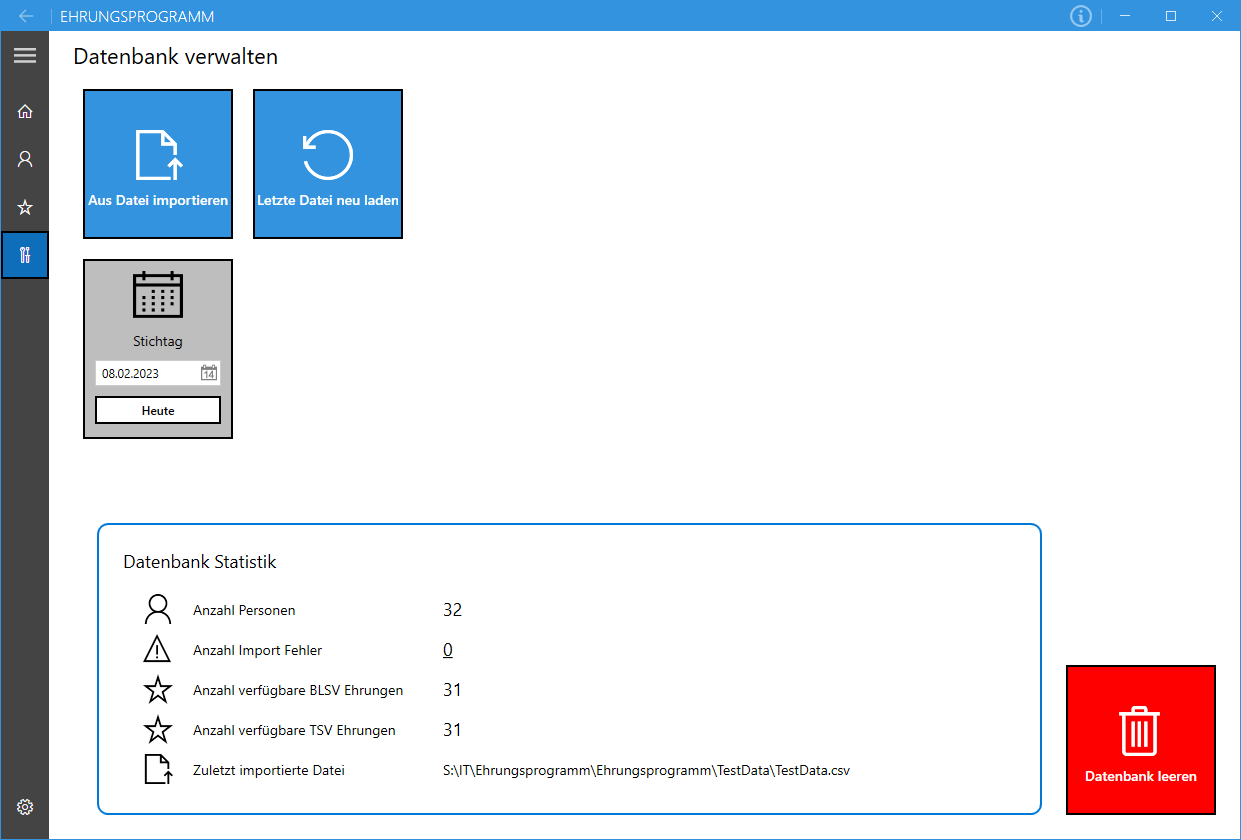
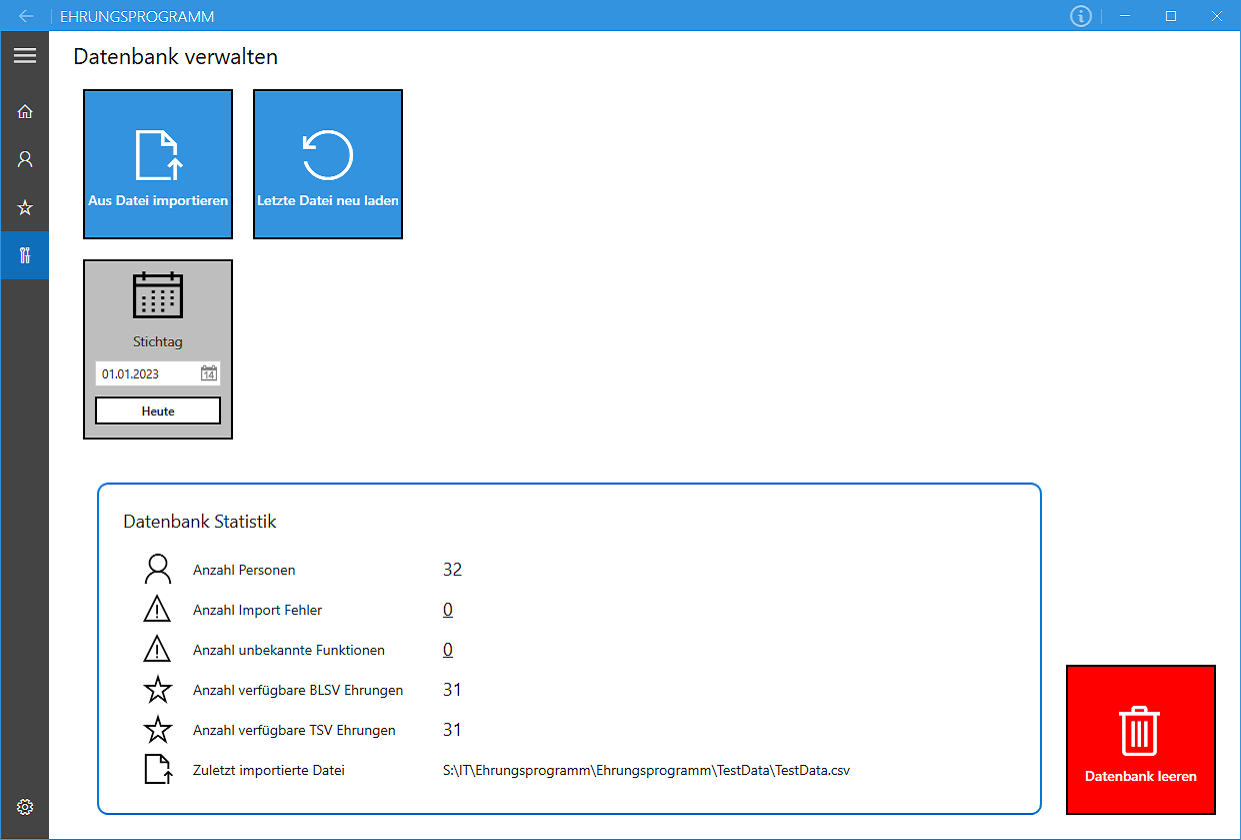
Taking some more functions into account (#26), added filter for unknown functions (#26), small restructurations

diff --git a/Ehrungsprogramm/Views/ManageDatabasePage.xaml b/Ehrungsprogramm/Views/ManageDatabasePage.xaml
@@ -86,6 +86,7 @@
                             <RowDefinition Height="40"/>
                             <RowDefinition Height="40"/>
                             <RowDefinition Height="40"/>
+                            <RowDefinition Height="40"/>
                         </Grid.RowDefinitions>
                         <Grid.ColumnDefinitions>
                             <ColumnDefinition Width="70"/>
@@ -107,17 +108,25 @@
                             </Hyperlink>
                         </TextBlock>
 
-                        <controls:FontIcon Grid.Row="3" Grid.Column="0" Glyph="&#xE734;" FontSize="30" Margin="5"/>
-                        <TextBlock Grid.Row="3" Grid.Column="1" FontSize="{StaticResource MediumFontSize}" VerticalAlignment="Center" Text="{x:Static properties:Resources.AvailableBLSVRewardsCountString}"/>
-                        <TextBlock Grid.Row="3" Grid.Column="2" FontSize="{StaticResource LargeFontSize}" VerticalAlignment="Center" Text="{Binding AvailableBLSVRewardsCount}"/>
+                        <controls:FontIcon Grid.Row="3" Grid.Column="0" Glyph="&#xE7BA;" FontSize="30" Margin="5"/>
+                        <TextBlock Grid.Row="3" Grid.Column="1" FontSize="{StaticResource MediumFontSize}" VerticalAlignment="Center" Text="{x:Static properties:Resources.UnknownFunctionsCountString}"/>
+                        <TextBlock Grid.Row="3" Grid.Column="2" FontSize="{StaticResource LargeFontSize}" VerticalAlignment="Center">
+                            <Hyperlink Command="{Binding ShowUnknownFunctionsPersonsCommand}">
+                                <TextBlock Text="{Binding UnknownFunctionsCount}"/>
+                            </Hyperlink>
+                        </TextBlock>
 
                         <controls:FontIcon Grid.Row="4" Grid.Column="0" Glyph="&#xE734;" FontSize="30" Margin="5"/>
-                        <TextBlock Grid.Row="4" Grid.Column="1" FontSize="{StaticResource MediumFontSize}" VerticalAlignment="Center" Text="{x:Static properties:Resources.AvailableTSVRewardsCountString}"/>
-                        <TextBlock Grid.Row="4" Grid.Column="2" FontSize="{StaticResource LargeFontSize}" VerticalAlignment="Center" Text="{Binding AvailableTSVRewardsCount}"/>
+                        <TextBlock Grid.Row="4" Grid.Column="1" FontSize="{StaticResource MediumFontSize}" VerticalAlignment="Center" Text="{x:Static properties:Resources.AvailableBLSVRewardsCountString}"/>
+                        <TextBlock Grid.Row="4" Grid.Column="2" FontSize="{StaticResource LargeFontSize}" VerticalAlignment="Center" Text="{Binding AvailableBLSVRewardsCount}"/>
 
-                        <controls:FontIcon Grid.Row="5" Grid.Column="0" Glyph="&#xE8E5;" FontSize="30" Margin="5"/>
-                        <TextBlock Grid.Row="5" Grid.Column="1" FontSize="{StaticResource MediumFontSize}" VerticalAlignment="Center" Text="{x:Static properties:Resources.LastImportedFileString}"/>
-                        <TextBlock Grid.Row="5" Grid.Column="2" FontSize="{StaticResource MediumFontSize}" VerticalAlignment="Center" Text="{Binding LastImportFilePath}" TextTrimming="CharacterEllipsis"/>
+                        <controls:FontIcon Grid.Row="5" Grid.Column="0" Glyph="&#xE734;" FontSize="30" Margin="5"/>
+                        <TextBlock Grid.Row="5" Grid.Column="1" FontSize="{StaticResource MediumFontSize}" VerticalAlignment="Center" Text="{x:Static properties:Resources.AvailableTSVRewardsCountString}"/>
+                        <TextBlock Grid.Row="5" Grid.Column="2" FontSize="{StaticResource LargeFontSize}" VerticalAlignment="Center" Text="{Binding AvailableTSVRewardsCount}"/>
+
+                        <controls:FontIcon Grid.Row="6" Grid.Column="0" Glyph="&#xE8E5;" FontSize="30" Margin="5"/>
+                        <TextBlock Grid.Row="6" Grid.Column="1" FontSize="{StaticResource MediumFontSize}" VerticalAlignment="Center" Text="{x:Static properties:Resources.LastImportedFileString}"/>
+                        <TextBlock Grid.Row="6" Grid.Column="2" FontSize="{StaticResource MediumFontSize}" VerticalAlignment="Center" Text="{Binding LastImportFilePath}" TextTrimming="CharacterEllipsis"/>
 
                     </Grid>
                 </Border>

diff --git a/Ehrungsprogramm.Core/Services/PersonService.cs b/Ehrungsprogramm.Core/Services/PersonService.cs
@@ -76,7 +76,7 @@ namespace Ehrungsprogramm.Core.Services
             set
             {
                 _settings.CalculationDeadline = value;
-                if(!_settingsCollection.Update(_settings))
+                if (!_settingsCollection.Update(_settings))
                 {
                     _settingsCollection.Insert(_settings);
                 }
@@ -93,7 +93,7 @@ namespace Ehrungsprogramm.Core.Services
             set
             {
                 _settings.LastImportFilePath = value;
-                if(!_settingsCollection.Update(_settings))
+                if (!_settingsCollection.Update(_settings))
                 {
                     _settingsCollection.Insert(_settings);
                 }
@@ -141,17 +141,17 @@ namespace Ehrungsprogramm.Core.Services
                     importingResult = true;
                     LastImportFilePath = filepath;
                 }
-                catch(OperationCanceledException)
+                catch (OperationCanceledException)
                 {
                     importingResult = false;
                 }
-                catch(Exception ex)
+                catch (Exception ex)
                 {
                     exception = ex;
                 }
             });
             OnImportFromFileFinished?.Invoke(this, null);
-            if(exception != null) { throw exception; }
+            if (exception != null) { throw exception; }
             return importingResult;
         }
 
@@ -193,39 +193,63 @@ namespace Ehrungsprogramm.Core.Services
         /// Return the number of <see cref="Person"/> in the database
         /// </summary>
         /// <returns>Number of <see cref="Person"/> in the database</returns>
-        public int GetPersonCount()
+        public int PersonCount
         {
-            return _peopleCollection?.Count() ?? 0;
+            get
+            {
+                return _peopleCollection?.Count() ?? 0;
+            }
         }
 
         /// <summary>
         /// Get the number of <see cref="Person"/> with parsing errors/>
         /// </summary>
         /// <returns>number of <see cref="Person"/> with parsing errors</returns>
-        public int GetParsingErrorCount()
+        public int ParsingErrorCount
         {
-            List<Person> people = _peopleCollection?.Query().ToList();
-            return people.Where(p => !string.IsNullOrEmpty(p.ParsingFailureMessage)).Count();
+            get
+            {
+                List<Person> people = _peopleCollection?.Query().ToList();
+                return people.Where(p => !string.IsNullOrEmpty(p.ParsingFailureMessage)).Count();
+            }
+        }
+
+        /// <summary>
+        /// Number of functions of type <see cref="FunctionType.UNKNOWN"/> within all <see cref="Person"/>/>
+        /// </summary>
+        public int UnknownFunctionsCount
+        {
+            get
+            {
+                List<Person> people = _peopleCollection?.Query().ToList();
+                return people.SelectMany(p => p.Functions).Where(f => f.Type == FunctionType.UNKNOWN).Count();
+            }
         }
 
         /// <summary>
         /// Get the number of available (but not obtained) BLSV <see cref="Reward"/>
         /// </summary>
         /// <returns>Number of available (but not obtained) BLSV <see cref="Reward"/></returns>
-        public int GetAvailableBLSVRewardsCount()
+        public int AvailableBLSVRewardsCount
         {
-            List<Person> people = GetPersons();
-            return people.Count(p => p.Rewards.HighestAvailableBLSVReward != null);
+            get
+            {
+                List<Person> people = GetPersons();
+                return people.Count(p => p.Rewards.HighestAvailableBLSVReward != null);
+            }
         }
 
         /// <summary>
         /// Get the number of available (but not obtained) TSV <see cref="Reward"/>
         /// </summary>
         /// <returns>Number of available (but not obtained) TSV <see cref="Reward"/></returns>
-        public int GetAvailableTSVRewardsCount()
+        public int AvailableTSVRewardsCount
         {
-            List<Person> people = GetPersons();
-            return people.Count(p => p.Rewards.HighestAvailableTSVReward != null);
+            get
+            {
+                List<Person> people = GetPersons();
+                return people.Count(p => p.Rewards.HighestAvailableTSVReward != null);
+            }
         }
 
         // ++++++++++++++++++++++++++++++++++++++++++++++++++++++++++++++++++++++++++++++++++++++++++++++++++++++++++++++++++++++++++++++++++++++++++++++

diff --git a/Ehrungsprogramm.Core/Services/CsvFileParserProWinner.cs b/Ehrungsprogramm.Core/Services/CsvFileParserProWinner.cs
@@ -40,11 +40,12 @@ namespace Ehrungsprogramm.Core.Services
         // "Name, Vorname";"Geb.Datum";"Eintritt am";"Funktionsname";"von -";"bis";"Ehr.Nr.";"Ehr.dat.";"Ehrungsbezeichnung";"Eintritt am";"Funktionsname";"Funktion von";"Funktion bis";"Ehrungs-Nr";"Ehrung am";"Ehrungsname"; ...
         //                             | FUNCTION 0                               | REWARD 0                                | FUNCTION 1                                                | REWARD 1                             | ...
 
-        public const string BOARD_MEMBER_MARKER = "1. 2. 3. Vorstand";
-        public const string BOARD_MEMBER_FUNCTION_MARKER = "Vorstandschaft";        // someone who has another function than 1. - 3. board member but is in the board too.
-        public const string BOARD_MEMBER_FUNCTION_MARKER2 = "HV-";                   // alternative marker for the BOARD_MEMBER_FUNCTION_MARKER
-        public const string HEAD_OF_DEPARTEMENT_MARKER = "Abteilungsleiter";
-        public const string OTHER_FUNCTIONS_MARKER = "FKT";
+        // The FUNCTION_MARKERS_BOARD_MEMBER_POINTS list contains all function markers that are assigned to functions like board members or equal scored functions
+        public static readonly List<string> FUNCTION_MARKERS_BOARD_MEMBER_POINTS = new List<string>() { "1. 2. 3. Vorstand" };
+        // The FUNCTION_MARKERS_HEAD_OF_DEPARTEMENT_POINTS list contains all function markers that are assigned to functions like head of departement or equal scored functions
+        public static readonly List<string> FUNCTION_MARKERS_HEAD_OF_DEPARTEMENT_POINTS = new List<string>() { "Abteilungsleiter", "Vorstandschaft", "HV-" };
+        // The FUNCTION_MARKERS_OTHER_FUNCTION_POINTS list contains all function markers that are assigned to other functions
+        public static readonly List<string> FUNCTION_MARKERS_OTHER_FUNCTION_POINTS = new List<string>() { "FKT", "Fahnenträger", "Geschäftsstelle Mita" };
 
         public const int REWARD_NUMBER_BLSV20 = 14;
         public const int REWARD_NUMBER_BLSV25 = 15;
@@ -234,15 +235,15 @@ namespace Ehrungsprogramm.Core.Services
                     }
 
                     // Check if the functionName contains some key words and assign the function.Type accordingly
-                    if (functionName.Contains(OTHER_FUNCTIONS_MARKER)) 
+                    if (FUNCTION_MARKERS_OTHER_FUNCTION_POINTS.Where(m => functionName.Contains(m)).Count() > 0)
                     { 
                         function.Type = FunctionType.OTHER_FUNCTION; 
                     }
-                    else if (functionName.Contains(HEAD_OF_DEPARTEMENT_MARKER) || functionName.Contains(BOARD_MEMBER_FUNCTION_MARKER) || functionName.Contains(BOARD_MEMBER_FUNCTION_MARKER2)) 
+                    else if (FUNCTION_MARKERS_HEAD_OF_DEPARTEMENT_POINTS.Where(m => functionName.Contains(m)).Count() > 0)
                     { 
                         function.Type = FunctionType.HEAD_OF_DEPARTEMENT;
                     }
-                    else if (functionName.Contains(BOARD_MEMBER_MARKER)) 
+                    else if (FUNCTION_MARKERS_BOARD_MEMBER_POINTS.Where(m => functionName.Contains(m)).Count() > 0)
                     { 
                         function.Type = FunctionType.BOARD_MEMBER; 
                     }

diff --git a/Ehrungsprogramm/ViewModels/ManageDatabaseViewModel.cs b/Ehrungsprogramm/ViewModels/ManageDatabaseViewModel.cs
@@ -37,22 +37,27 @@ namespace Ehrungsprogramm.ViewModels
         /// <summary>
         /// Number of Persons in the database
         /// </summary>
-        public int PersonCount => _personService?.GetPersonCount() ?? 0;
+        public int PersonCount => _personService?.PersonCount ?? 0;
 
         /// <summary>
         /// Number of <see cref="Person"/> with parsing errors/>
         /// </summary>
-        public int ParsingErrorCount => _personService?.GetParsingErrorCount() ?? 0;
+        public int ParsingErrorCount => _personService?.ParsingErrorCount ?? 0;
+
+        /// <summary>
+        /// Number of functions of type <see cref="FunctionType.UNKNOWN"/> within all <see cref="Person"/>/>
+        /// </summary>
+        public int UnknownFunctionsCount => _personService?.UnknownFunctionsCount ?? 0;
 
         /// <summary>
         /// Number of available (but not obtained) BLSV <see cref="Reward"/>
         /// </summary>
-        public int AvailableBLSVRewardsCount => _personService?.GetAvailableBLSVRewardsCount() ?? 0;
+        public int AvailableBLSVRewardsCount => _personService?.AvailableBLSVRewardsCount ?? 0;
 
         /// <summary>
         /// Number of available (but not obtained) TSV <see cref="Reward"/>
         /// </summary>
-        public int AvailableTSVRewardsCount => _personService?.GetAvailableTSVRewardsCount() ?? 0;
+        public int AvailableTSVRewardsCount => _personService?.AvailableTSVRewardsCount ?? 0;
 
         /// <summary>
         /// Path of the last imported file
@@ -71,6 +76,9 @@ namespace Ehrungsprogramm.ViewModels
 
         private ICommand _showParsingFailurePersonsCommand;
         public ICommand ShowParsingFailurePersonsCommand => _showParsingFailurePersonsCommand ?? (_showParsingFailurePersonsCommand = new RelayCommand(() => _navigationService.NavigateTo(typeof(PersonsViewModel).FullName, PersonsViewModel.FILTER_FLAG_WARN)));
+
+        private ICommand _showUnknownFunctionsPersonsCommand;
+        public ICommand ShowUnknownFunctionsPersonsCommand => _showUnknownFunctionsPersonsCommand ?? (_showUnknownFunctionsPersonsCommand = new RelayCommand(() => _navigationService.NavigateTo(typeof(PersonsViewModel).FullName, PersonsViewModel.FILTER_FLAG_UNKNOWN_FUNCTION)));
 
         private ICommand _setCalculationDeadlineTodayCommand;
         public ICommand SetCalculationDeadlineTodayCommand => _setCalculationDeadlineTodayCommand ?? (_setCalculationDeadlineTodayCommand = new RelayCommand(() => CalculationDeadline = DateTime.Now));
@@ -164,6 +172,7 @@ namespace Ehrungsprogramm.ViewModels
         {
             OnPropertyChanged(nameof(PersonCount));
             OnPropertyChanged(nameof(ParsingErrorCount));
+            OnPropertyChanged(nameof(UnknownFunctionsCount));
             OnPropertyChanged(nameof(AvailableBLSVRewardsCount));
             OnPropertyChanged(nameof(AvailableTSVRewardsCount));
             OnPropertyChanged(nameof(LastImportFilePath));

diff --git a/Ehrungsprogramm.Core/Contracts/Services/IPersonService.cs b/Ehrungsprogramm.Core/Contracts/Services/IPersonService.cs
@@ -69,24 +69,29 @@ namespace Ehrungsprogramm.Core.Contracts.Services
         /// Return the number of <see cref="Person"/> in the database
         /// </summary>
         /// <returns>Number of <see cref="Person"/> in the database</returns>
-        int GetPersonCount();
+        int PersonCount { get; }
 
         /// <summary>
         /// Get the number of <see cref="Person"/> with parsing errors/>
         /// </summary>
         /// <returns>number of <see cref="Person"/> with parsing errors</returns>
-        int GetParsingErrorCount();
+        int ParsingErrorCount { get; }
+
+        /// <summary>
+        /// Number of functions of type <see cref="FunctionType.UNKNOWN"/> within all <see cref="Person"/>/>
+        /// </summary>
+        int UnknownFunctionsCount { get; }
 
         /// <summary>
         /// Get the number of available (but not obtained) BLSV <see cref="Reward"/>
         /// </summary>
         /// <returns>Number of available (but not obtained) BLSV <see cref="Reward"/></returns>
-        int GetAvailableBLSVRewardsCount();
+        int AvailableBLSVRewardsCount { get; }
 
         /// <summary>
         /// Get the number of available (but not obtained) TSV <see cref="Reward"/>
         /// </summary>
         /// <returns>Number of available (but not obtained) TSV <see cref="Reward"/></returns>
-        int GetAvailableTSVRewardsCount();
+        int AvailableTSVRewardsCount { get; }
     }
 }

diff --git a/Ehrungsprogramm/ViewModels/PersonsViewModel.cs b/Ehrungsprogramm/ViewModels/PersonsViewModel.cs
@@ -18,7 +18,8 @@ namespace Ehrungsprogramm.ViewModels
 {
     public class PersonsViewModel : ObservableObject, INavigationAware
     {
-        public const string FILTER_FLAG_WARN = "&warn";         // The warn flag is used to only show people with parsing failures
+        public const string FILTER_FLAG_WARN = "&warn";                         // The warn flag is used to only show people with parsing failures
+        public const string FILTER_FLAG_UNKNOWN_FUNCTION = "&unknownfunction";  // The unknownfunction flag is used to only show people with unknown functions
 
         private List<Person> _people;
         /// <summary>
@@ -70,10 +71,11 @@ namespace Ehrungsprogramm.ViewModels
                     // Process each flag
                     foreach (Match match in matches)
                     {
-                        switch (match.Value.ToLower())
+                        switch (match.Value.ToLower().Trim())
                         {
                             // The warn flag is used to only show people with parsing failures
                             case FILTER_FLAG_WARN: filterResult &= !string.IsNullOrEmpty(person.ParsingFailureMessage); break;
+                            case FILTER_FLAG_UNKNOWN_FUNCTION: filterResult &= (person.Functions.Where(f => f.Type == FunctionType.UNKNOWN).Count() > 0); break;
                             default: break;
                         }
                     }

diff --git a/Ehrungsprogramm/Properties/Resources.Designer.cs b/Ehrungsprogramm/Properties/Resources.Designer.cs
@@ -767,6 +767,15 @@ namespace Ehrungsprogramm.Properties {
         }
         
         /// <summary>
+        ///   Sucht eine lokalisierte Zeichenfolge, die Unknown Functions Count ähnelt.
+        /// </summary>
+        public static string UnknownFunctionsCountString {
+            get {
+                return ResourceManager.GetString("UnknownFunctionsCountString", resourceCulture);
+            }
+        }
+        
+        /// <summary>
         ///   Sucht eine lokalisierte Zeichenfolge, die Visible Items ähnelt.
         /// </summary>
         public static string VisibleItemsString {

diff --git a/CHANGELOG.md b/CHANGELOG.md
@@ -1,5 +1,12 @@
 # Ehrungsprogramm Changelog
 
+## [v1.3.0]
+
+- Kleine Fehlerbehebungen (#27)
+- Fehlende Bewertung für einige Funktionen korrigiert (#26)
+- Auf den Ausdrucken werden mehr Details angezeigt (#25)
+- Einlesen der CSV Datei (CsvFileParserProWinner) verbessert (#24)
+
 ## [v1.2.0]
 
 - Die Filter der Ehrungsliste werden mit ausgedruckt (#23)
